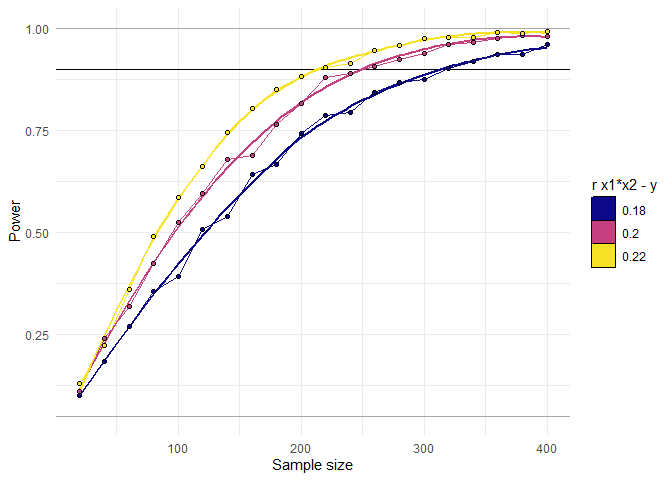
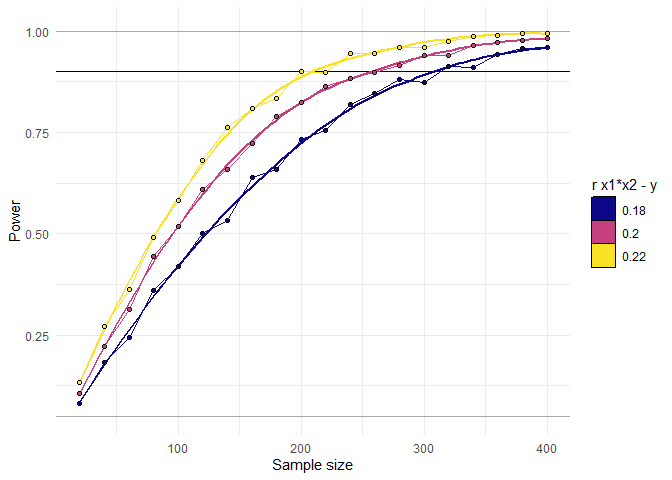
fixr2

diff --git a/README.md b/README.md
@@ -61,12 +61,12 @@ test_power<-power_interaction(
 #> [1] "Checking for errors in inputs..."
 #> [1] "Performing 1000 simulations"
 toc()
-#> 15.72 sec elapsed
+#> 16.27 sec elapsed
 test_power
 #> # A tibble: 1 x 1
 #>     pwr
 #>   <dbl>
-#> 1 0.797
+#> 1 0.796
 ```
 
 We see that we have \~80% power to detect the effect of interest.
@@ -144,7 +144,7 @@ test_power<-power_interaction(
 #> [1] "Checking for errors in inputs..."
 #> [1] "Performing 60000 simulations"
 toc()
-#> 275.66 sec elapsed
+#> 278.41 sec elapsed
 ```
 
 The results of this analysis can be hard to interpret just by looking at
@@ -164,9 +164,9 @@ power_curve for each interaction effect size crosses our 90% line:
 ``` r
 power_estimate(test_power,power_target = .9,x="N")
 #>   r.x1x2.y estimate
-#> 1     0.18 309.8195
-#> 2     0.20 243.9879
-#> 3     0.22 205.9261
+#> 1     0.18 307.1685
+#> 2     0.20 243.3279
+#> 3     0.22 202.9760
 ```
 
 We can see that depending on the specific effect size we hope to detect,
@@ -201,7 +201,7 @@ test_power<-power_interaction(
 #> [1] "Checking for errors in inputs..."
 #> [1] "Performing 14000 simulations"
 toc()
-#> 89.81 sec elapsed
+#> 94.82 sec elapsed
 ```
 
 As with the previous example, the results of this analysis can be hard
@@ -218,7 +218,7 @@ power_curve for each interaction effect size crosses our 90% line:
 
 ``` r
 power_estimate(test_power,power_target = .9,x = "r.x1x2.y")
-#> [1] 0.1475744
+#> [1] 0.149134
 ```
 
 We can use the function `plot_simple_slope()` to visualize the
@@ -263,7 +263,7 @@ test_power<-power_interaction(
 #> [1] "Checking for errors in inputs..."
 #> [1] "Performing 28000 simulations"
 toc()
-#> 166.42 sec elapsed
+#> 176.02 sec elapsed
 plot_power_curve(test_power,power_target = .9)
 ```
 
@@ -316,9 +316,11 @@ test_power<-power_interaction(
 #> [1] "Adjusting correlations for variable transformations..."
 #> [1] "Performing 9000 simulations"
 toc()
-#> 77.07 sec elapsed
-plot_power_curve(test_power,power_target = .9,x = "skew.x1")
+#> 82.54 sec elapsed
+plot_power_curve(test_power,power_target = .9)
 ```
+
+<img src="man/figures/README-example11-1.png" width="100%" />
 
 We can see that in this example, our power decreases as the x1 skew
 increases.
